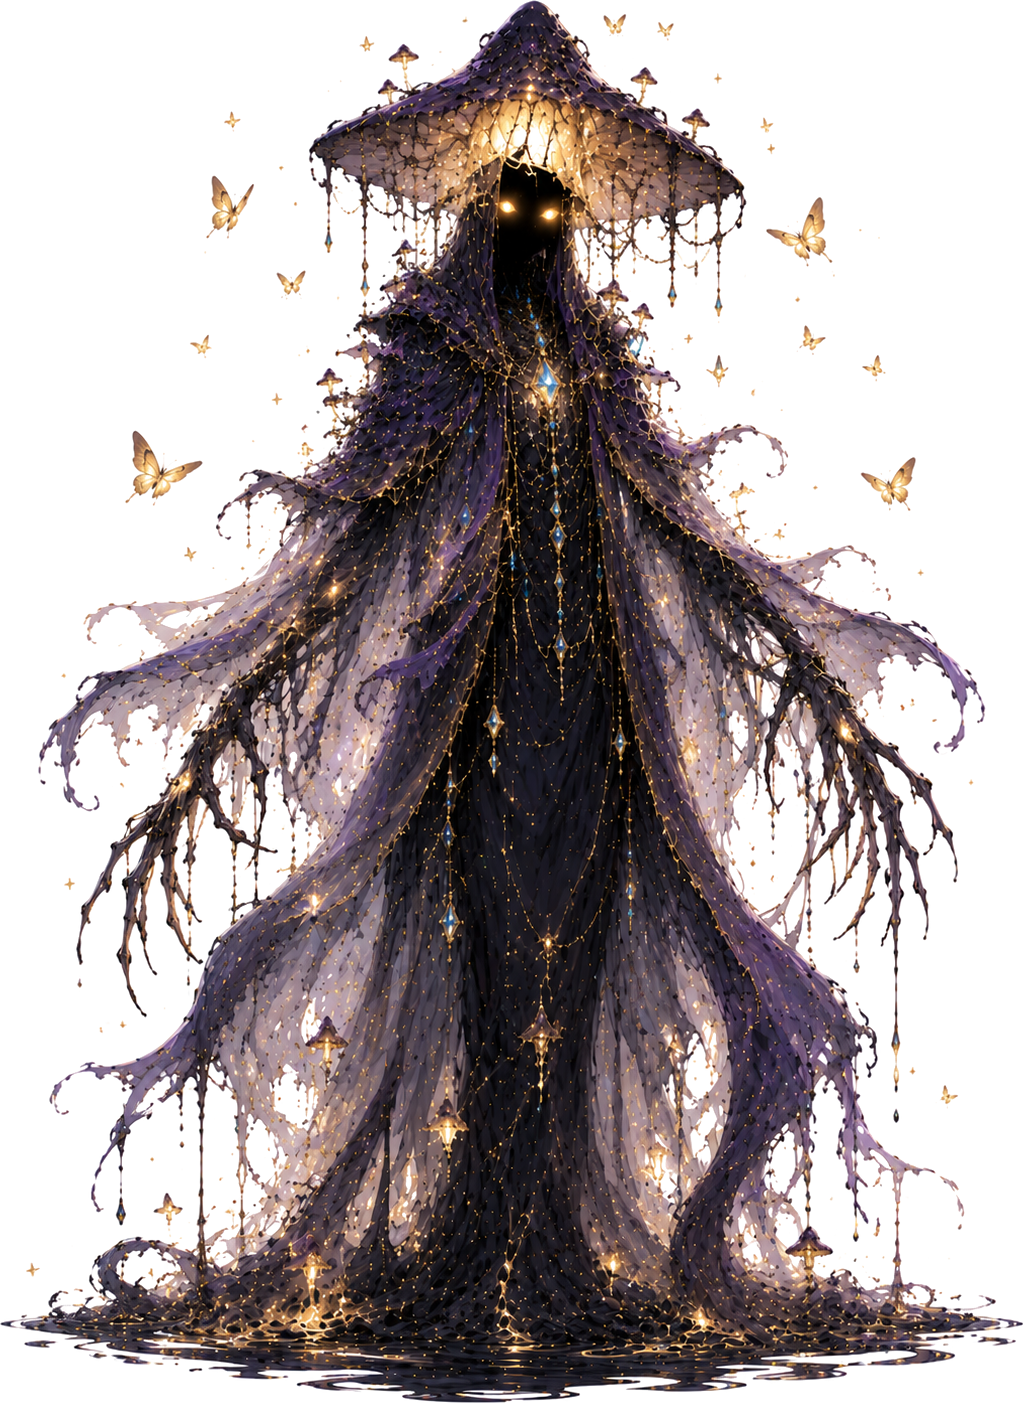
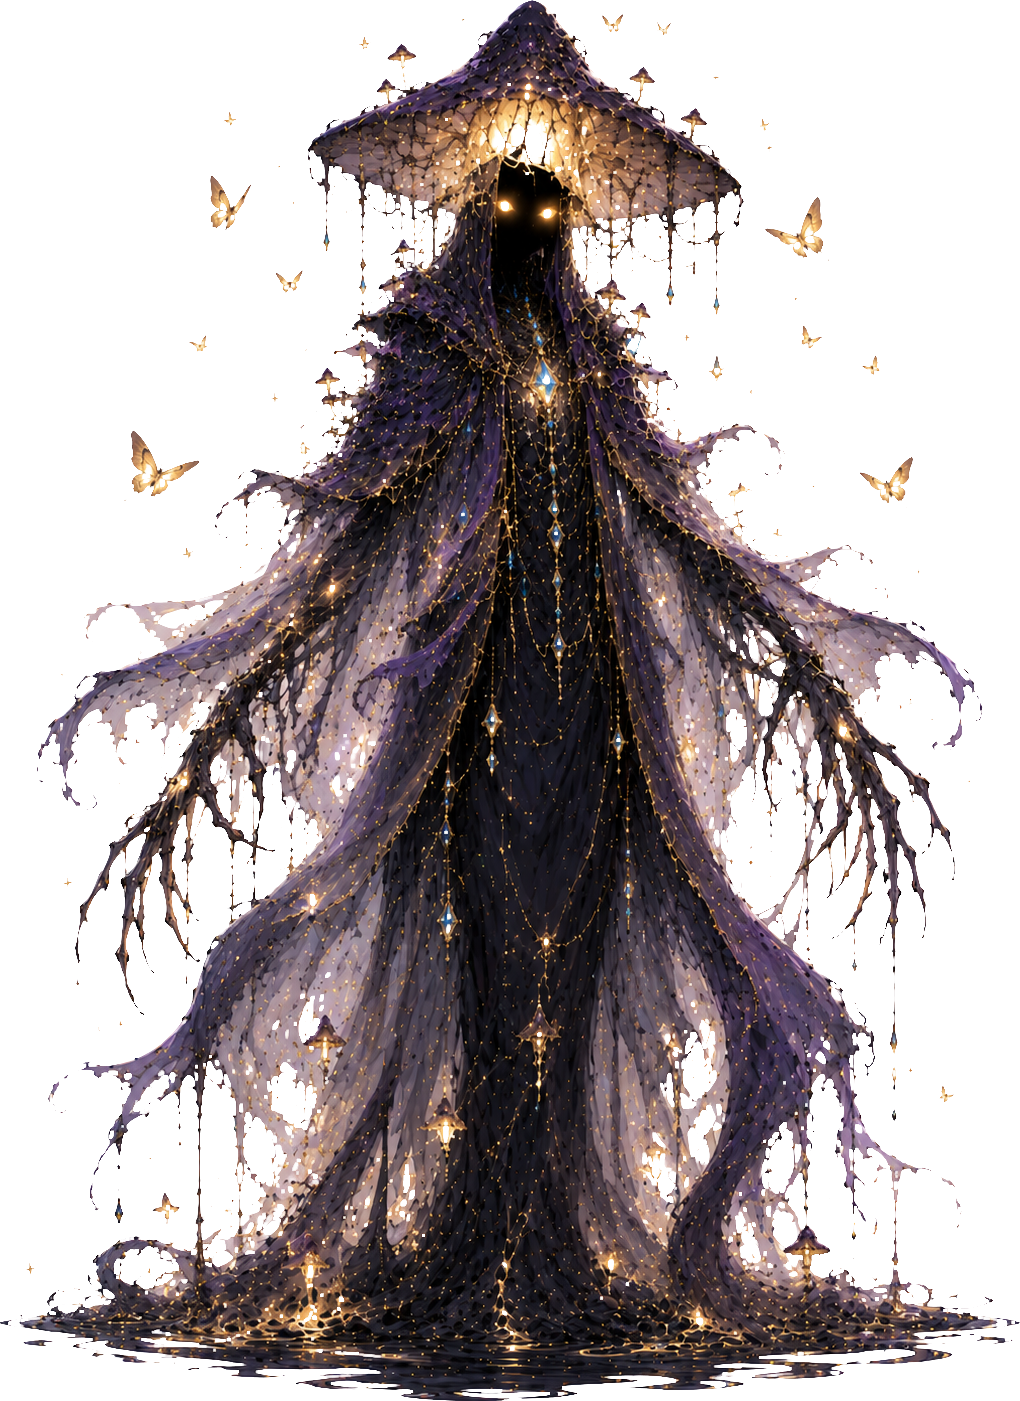
feat: Areas 3 e 4 do Mapa 1 + recorte sem halo
- Area 3 The Whispering Hollows: bg arvores ocas, Husklight Murmur (mob),
  The Hollow Cantor (mid-boss), banda 21-30
- Area 4 The Moonlit Canopy: bg copa/aurora, Boughlight Creeper (mob),
  The Moonlit Sovereign (mid-boss), banda 31-40
- remove_bg.py: rampa mais agressiva + erosao 1px (elimina halo branco da borda);
  recortes das Areas 2-4 reprocessados
- regras de arte: mid-boss com rosto humano, mob com rosto NAO humano,
  genero do mid-boss aleatorio

diff --git a/src/data.js b/src/data.js
@@ -150,6 +150,32 @@ G.data = {
       ],
       boss: { name: "The Drowned Lantern", sprite: "🕯", img: "assets/enemies/drowned_lantern.png" },
     },
+    {
+      // Área 3 — The Whispering Hollows: árvores ocas que cantam a luz presa.
+      id: 3,
+      name: "The Whispering Hollows",
+      img: "assets/areas/whispering_hollows.png",
+      levelRange: [21, 30],
+      enemies: [
+        { name: "Husklight Murmur", sprite: "🌳", img: "assets/enemies/husklight_murmur.png" },  // novo
+        { name: "Dreamhorn Warden", sprite: "🦌", img: "assets/enemies/dreamhorn_warden.png" },  // reaproveitado (Área 1)
+        { name: "Mirelight Drifter", sprite: "🏮", img: "assets/enemies/mirelight_drifter.png" }, // reaproveitado (Área 2)
+      ],
+      boss: { name: "The Hollow Cantor", sprite: "🎶", img: "assets/enemies/hollow_cantor.png" },
+    },
+    {
+      // Área 4 — The Moonlit Canopy: a copa alta, perto da aurora.
+      id: 4,
+      name: "The Moonlit Canopy",
+      img: "assets/areas/moonlit_canopy.png",
+      levelRange: [31, 40],
+      enemies: [
+        { name: "Boughlight Creeper", sprite: "🍃", img: "assets/enemies/boughlight_creeper.png" }, // novo
+        { name: "Mothlight Herald", sprite: "🦋", img: "assets/enemies/mothlight_herald.png" },      // reaproveitado (Área 1)
+        { name: "Husklight Murmur", sprite: "🌳", img: "assets/enemies/husklight_murmur.png" },       // reaproveitado (Área 3)
+      ],
+      boss: { name: "The Moonlit Sovereign", sprite: "👑", img: "assets/enemies/moonlit_sovereign.png" },
+    },
   ],
 
   // área atual (em função do progresso salvo)

diff --git a/.claude/remove_bg.py b/.claude/remove_bg.py
@@ -1,11 +1,12 @@
 # Remove fundo branco E preserva transparência já existente; recorta ao conteúdo.
 # Uso: python remove_bg.py <entrada> <saida>
 import sys
-from PIL import Image, ImageChops
+from PIL import Image, ImageChops, ImageFilter
 
 src = sys.argv[1]
 dst = sys.argv[2]
-hi, lo = 248, 222  # >=hi vira transparente; <=lo fica opaco; entre = rampa
+hi, lo = 242, 200  # >=hi vira transparente; <=lo fica opaco; entre = rampa
+# (mais agressivo que antes p/ comer a franja branca anti-aliased da borda)
 
 im = Image.open(src).convert("RGBA")
 r, g, b, a0 = im.split()
@@ -24,6 +25,8 @@ white_alpha = mn.point(lut)
 # alpha final = mínimo(alpha original, remoção-do-branco)
 # -> transparente se já era transparente OU se é branco
 a = ImageChops.darker(a0, white_alpha)
+# erode 1px a borda do alpha p/ matar o halo branco residual (MinFilter = mínimo 3x3)
+a = a.filter(ImageFilter.MinFilter(3))
 im.putalpha(a)
 
 # recorta ao conteúdo SÓLIDO (ignora glow/sparkles fracos que esticam o bbox)